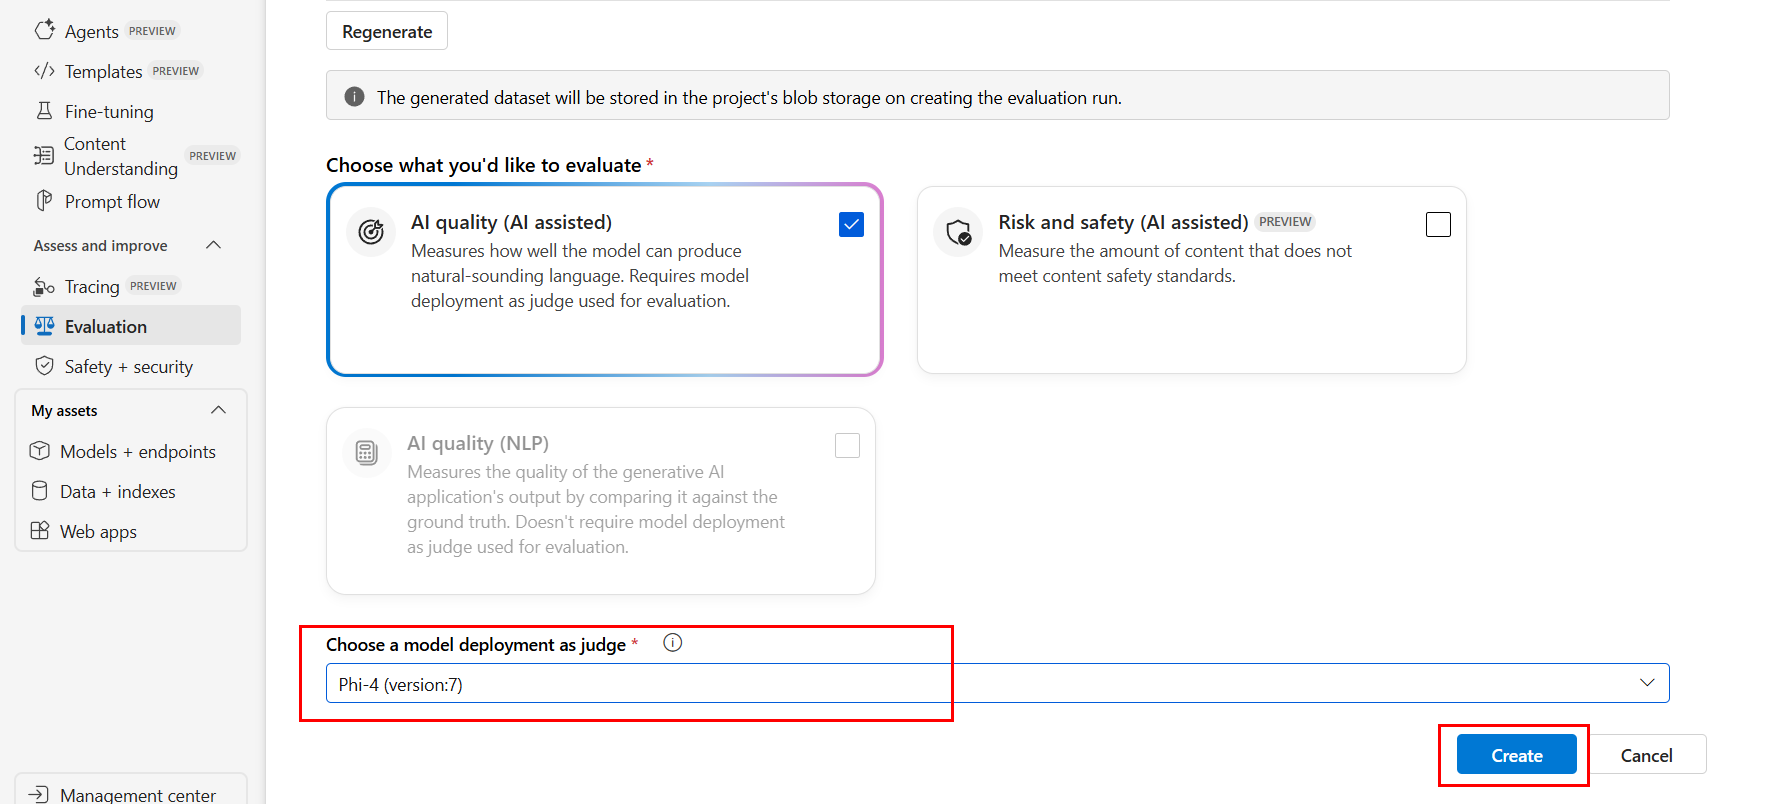
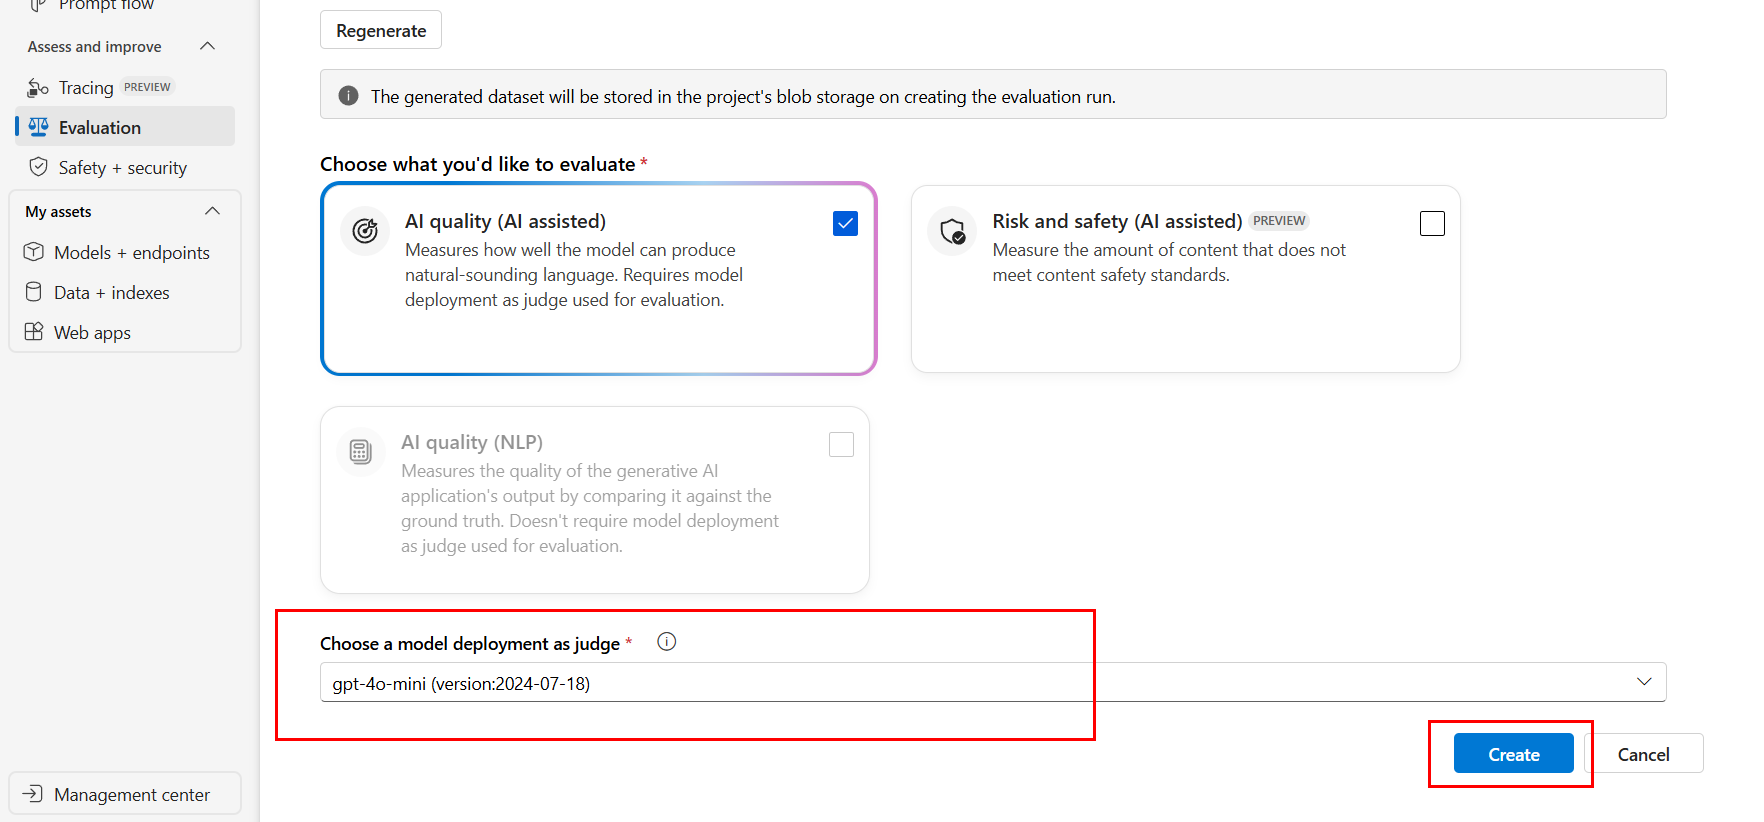
Update lab instructions

diff --git a/README.md b/README.md
@@ -156,7 +156,7 @@ In this exercise, you will evaluate the performance of the model using the built
 
     ![Azure AI Foundry Portal - Evaluate model - Generate questions](media/01-03-evaluation-generate.png)
 
-3. Under the **Choose a model deployment as judge** section, select the `Phi-4` model deployment and then select the **Create** button.
+3. Under the **Choose a model deployment as judge** section, select the `gpt-4o-mini` model deployment and then select the **Create** button.
     
     ![Azure AI Foundry Portal - Evaluate model - Create](media/01-03-evaluation-create.png)
 
